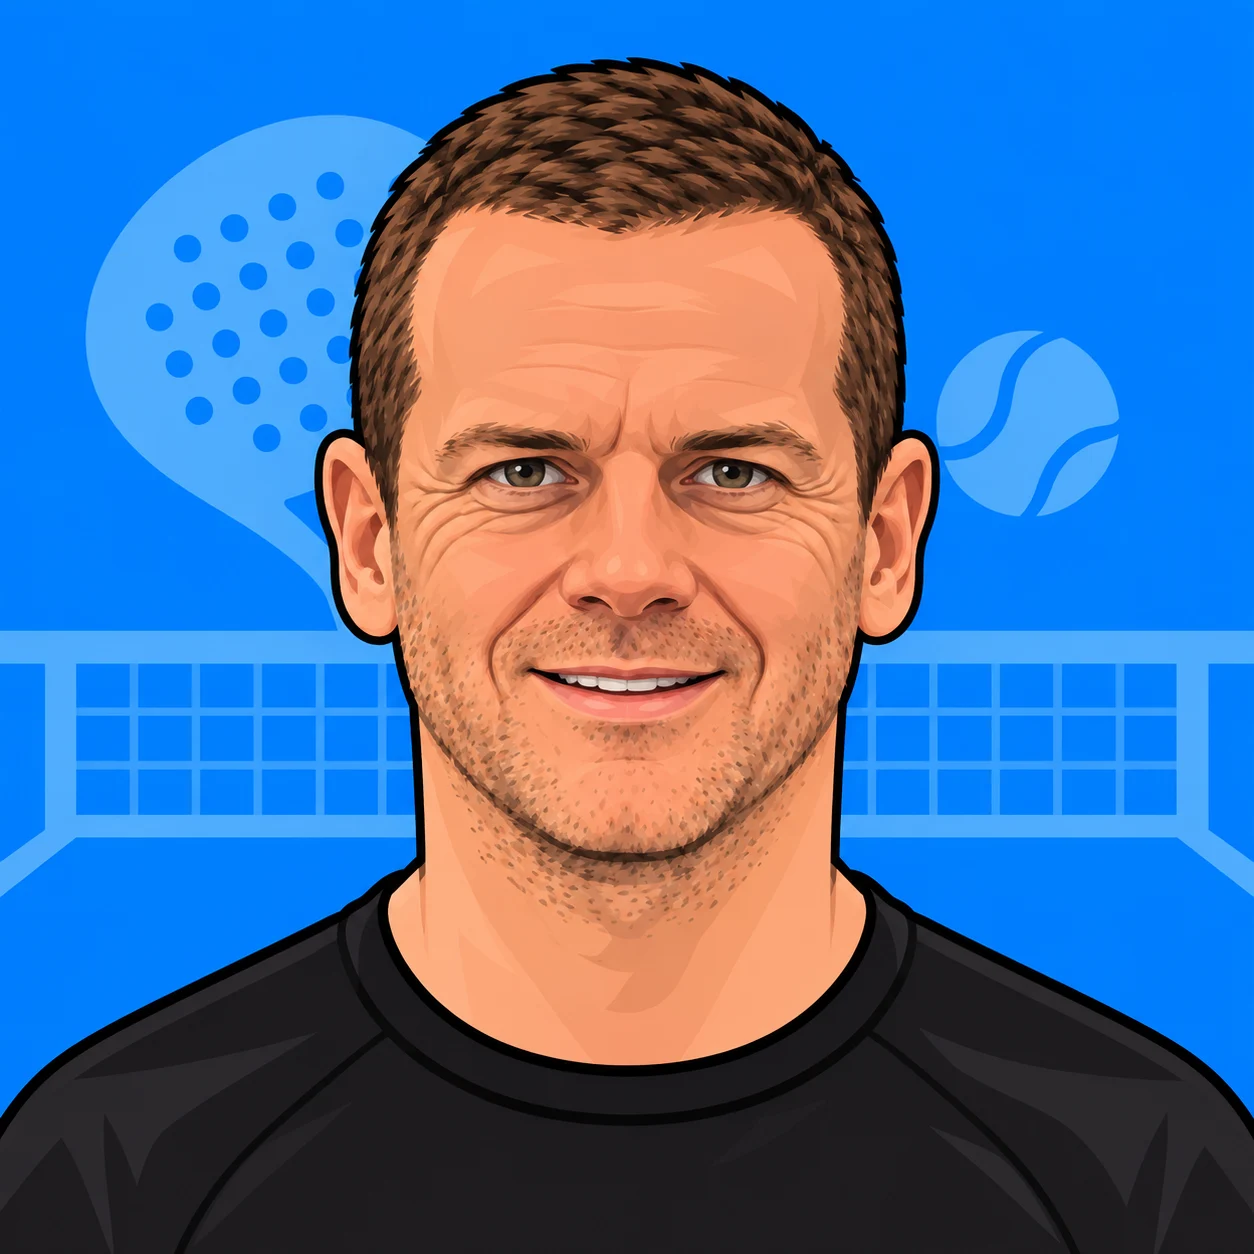
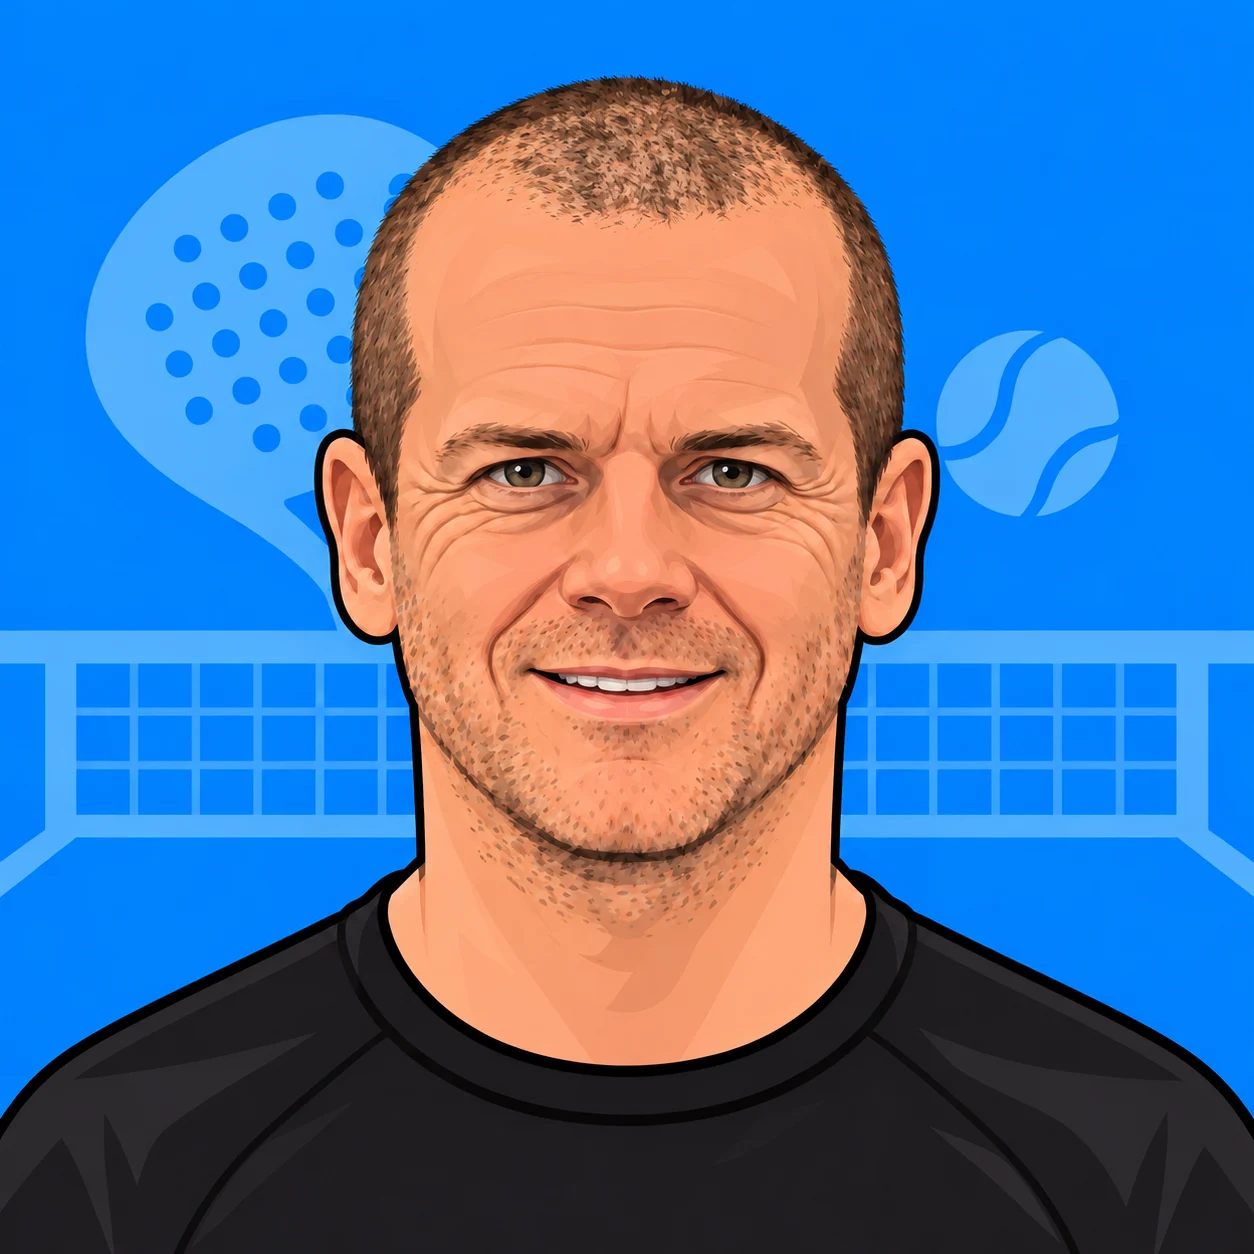
Match Kennedy Murphy’s haircut to reference photos

Changed region(s): [[0.2799, 0.0311, 0.7464, 0.3732], [0.311, 0.4976, 0.3421, 0.5287]]

diff --git a/index.html b/index.html
@@ -11,9 +11,9 @@
   <link rel="preconnect" href="https://fonts.googleapis.com">
   <link rel="preconnect" href="https://fonts.gstatic.com" crossorigin>
   <link href="https://fonts.googleapis.com/css2?family=Barlow+Condensed:wght@600;700;800;900&family=DM+Sans:wght@400;500;600;700;800&display=swap" rel="stylesheet">
-  <link rel="stylesheet" href="./styles.css?v=20261117-gary-v3">
-  <script defer src="./portraits.js?v=20261117-gary-v3"></script>
-  <script defer src="./app.js?v=20261117-gary-v3"></script>
+  <link rel="stylesheet" href="./styles.css?v=20261117-kennedy-v2">
+  <script defer src="./portraits.js?v=20261117-kennedy-v2"></script>
+  <script defer src="./app.js?v=20261117-kennedy-v2"></script>
 </head>
 <body>
 <header class="site-header">

diff --git a/app.js b/app.js
@@ -276,7 +276,7 @@
       delegateClicks(event);
     });
     try {
-      const response=await fetch('./data/official-results.json?v=20261117-gary-v3', {cache:'no-store'});
+      const response=await fetch('./data/official-results.json?v=20261117-kennedy-v2', {cache:'no-store'});
       if (!response.ok) throw new Error('HTTP '+response.status);
       const json=await response.json();
       if (!Array.isArray(json.events)) throw new Error('Invalid archive format');

diff --git a/portraits.js b/portraits.js
@@ -2,7 +2,7 @@
 window.PPC_PLAYER_PORTRAITS={
 "p-gavin":"./assets/players/gavin.webp?v=20261117-gavin",
 "p-eric":"./assets/players/eric.webp?v=20261117-eric",
-"p-kennedy":"./assets/players/kennedy.webp?v=20261117-kennedy",
+"p-kennedy":"./assets/players/kennedy.webp?v=20261117-kennedy-v2",
 "p-gary":"./assets/players/gary.webp?v=20261117-gary-v3",
 "p-sean":"./assets/players/sean.webp?v=20261117-sean",
 "p-ciaran":"./assets/players/ciaran.webp?v=20261117-ciaran",
